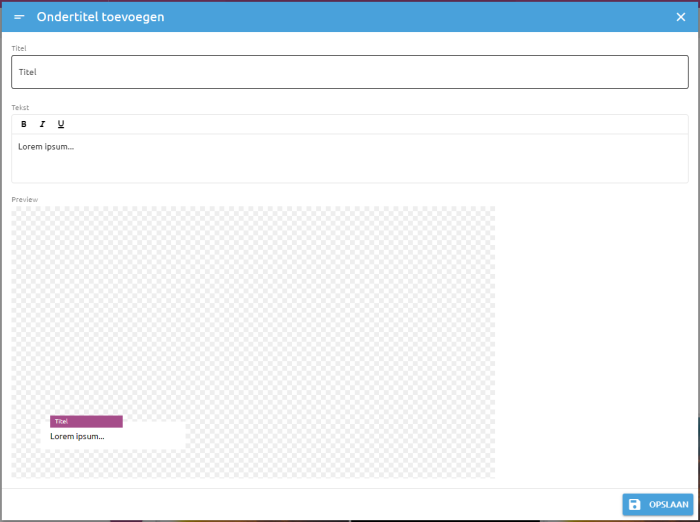
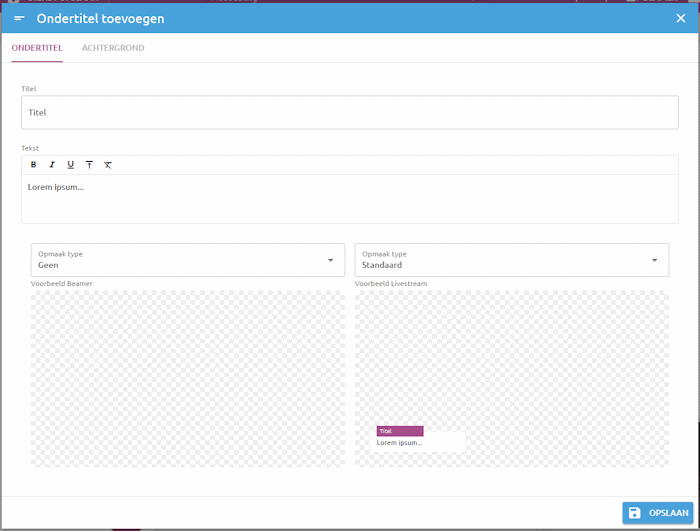
help titel, scripture

diff --git a/src/components/help/HelpCaption.vue b/src/components/help/HelpCaption.vue
@@ -2,7 +2,7 @@
   <div>
     <div class="text-h4 q-mb-md">
       <img src="../../../public/icons/favicon-32x32.png">
-      Ondertitels/teksten toevoegen / wijzigen
+      Titels/teksten toevoegen / wijzigen
     </div>
     <div class="text-h6 q-mb-md">
       Nieuwe ondertitels en/of tekst toevoegen aan setlist:
@@ -13,8 +13,7 @@
     <p>
       Je zie nu onderstaand scherm verschijnen.<br>
       Vul hier de <i>titel</i> en de <i>tekst</i> in de betreffende vakken in. Onder <i>preview</i> zie je een voorbeeld.<br>
-      De opmaak van de teksten wordt grotendeels door het programma geregeld.<br>
-      De groote van het onderdeelvak wordt aangepast afhankelijk van de hoeveelheid tekst die er in staat.<br>
+      De opmaak van de teksten wordt grotendeels door het programma geregeld, je kan hier kiezen uit een aantal opmaken.<br>
       Zie onder wat aandachtspunten.<br>
       <img src="../../assets/help/addcaptiondialog.png">
     </p>
@@ -27,15 +26,50 @@
       Vul hier de titel in die boven de tekst wordt weergegeven.
     </p>
     <p>
-      Eventueel kunnen delen van de tekst vet, cursief, onderstreept worden.<br>
+      Eventueel kunnen delen van de tekst vet, cursief, onderstreept worden,<br>
+      verkleind en grijs als vers nummer weergegeven of alle opmaak verwijderd worden.<br>
       <img src="../../assets/help/captionfontsetting.png">
     </p>
     <p>
-      <i><u>aandachtspunten / opmerkingen:</u></i>
+      <b><u>Opmaak</u></b><br>
+      <i><u>Opties Beamer:</u></i>
       <ul>
         <li>
-          Op dit moment is er alleen een livestream ondertitel.<br>
-          Er wordt aan gewerkt om dit uit te breiden naar beamer & livesteam met diverse opties.
+          <b>Standaard</b><br>
+          Titel boven aan en tekst hier onder weergegeven.
+        </li>
+        <li>
+          <b>Bijbeltekst</b><br>
+          Titel rechts onder, op rand zichtgebied van de zaal en tekst vanaf boven weergegeven.
+        </li>
+        <li>
+          <b>Alleen tekst</b><br>
+          Alleen de tekst wordt weergegeven, de titel niet.
+        </li>
+        <li>
+          <b>Thema</b><br>
+          De titel komt onder de tekst thema te staan en de tekst onderin het zichtbare gebied.
+        </li>
+        <li>
+          <b>Geen</b><br>
+          Er niets weergegeven.
+        </li>
+      </ul>
+    </p>
+    <p>
+      <i><u>Opties Livestream:</u></i>
+      <ul>
+        <li>
+          <b>Standaard</b><br>
+          De groote van het onderdeelvak wordt aangepast afhankelijk van de hoeveelheid tekst die er in staat.
+        </li>
+        <li>
+          <b>Breed</b><br>
+          Het onderdeel vak wordt over de hele breedte weergeven.
+        </li>
+        <li>
+          <b>Geen</b><br>
+          Er niets weergegeven.
         </li>
       </ul>
     </p>

diff --git a/src/components/help/HelpScripture.vue b/src/components/help/HelpScripture.vue
@@ -33,7 +33,7 @@
       VezyWorship zorgt voor verdeling van de beamer tekst op de livestream aan de hand van regels & een maximale lengte aan tekens.
     </p>
     <p>
-      Eventueel kunnen delen van de tekst vet, cursief, onderstreept worden en daarnaast kan de tekst verkleind aan de bovenzijde geplaatst worden.<br>
+      Eventueel kunnen delen van de tekst vet, cursief, onderstreept worden en daarnaast kan de tekst verkleind aan de bovenzijde geplaatst worden, of alle opmaak van de tekst verwijderd worden.<br>
       <img src="../../assets/help/scripturefontsetting.png">
     </p>
     <p>
@@ -49,8 +49,15 @@
           Het gekozen boek & vertaling, hoofdstuk e.d. wordt als titel op de beamer en livestream weergegeven.
         </li>
         <li>
-          Er zitten nog een aantal <a href="https://github.com/VEZwolle/vezy-worship/issues?q=is%3Aissue+is%3Aopen+label%3Ascripture" target="_blank">fouten</a> in deze module wanneer je zelf tekst invult;<br>
-          controleer jezelf met het voorbeeld in de bedienging of het juiste wordt weergegeven.<br>
+          Splitsen van regels gebeurt met de volgende voorwaarden:<br>
+          <sup>
+            Zoek eerst of minder dan 350 tekens<br>
+            Dan naar een regeleinde<br>
+            Dan naar [.?!]+['"’]<br>
+            Dan naar [.?!]<br>
+            Dan naar [,:; spatie]<br>
+            Dan naar iets binnen 350 tekens.
+          </sup>
         </li>
       </ul>
     </p>

diff --git a/src/components/help/HelpDialog.vue b/src/components/help/HelpDialog.vue
@@ -27,7 +27,7 @@
                 <q-tab name="live" icon="live_tv" label="Bediening Live" />
                 <q-tab name="mainsetlist" icon="input" label="Dienst & setlist" />
                 <q-tab name="song" icon="music_note" label="Liederen" />
-                <q-tab name="caption" icon="short_text" label="Ondertitel" />
+                <q-tab name="caption" icon="short_text" label="Titels" />
                 <q-tab name="scripture" icon="menu_book" label="Bijbelteksten" />
                 <q-tab name="image" icon="image" label="Afbeeldingen" />
                 <q-tab name="video" icon="smart_display" label="Film" />
